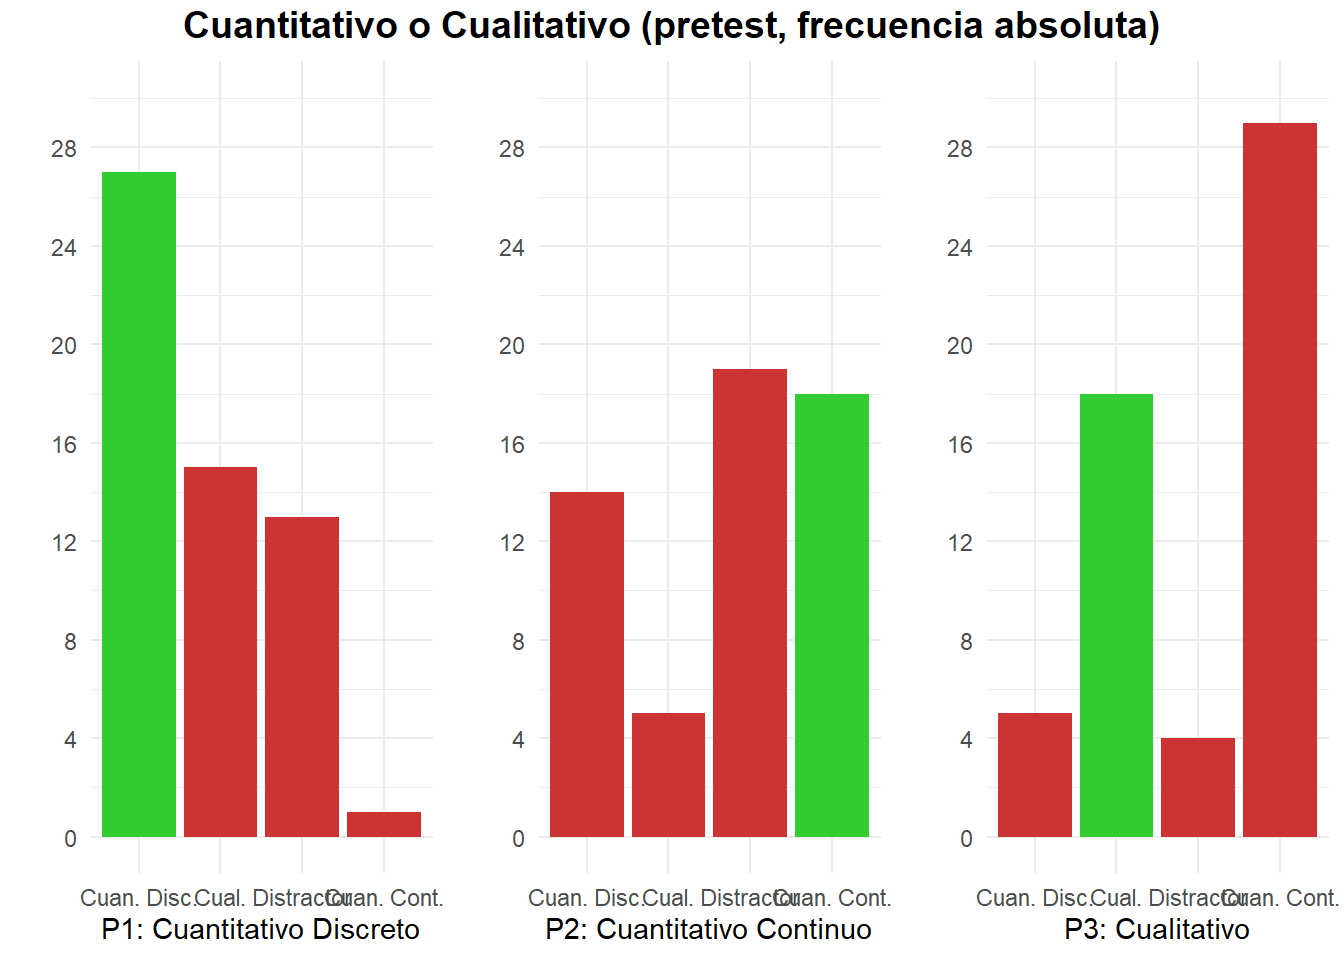
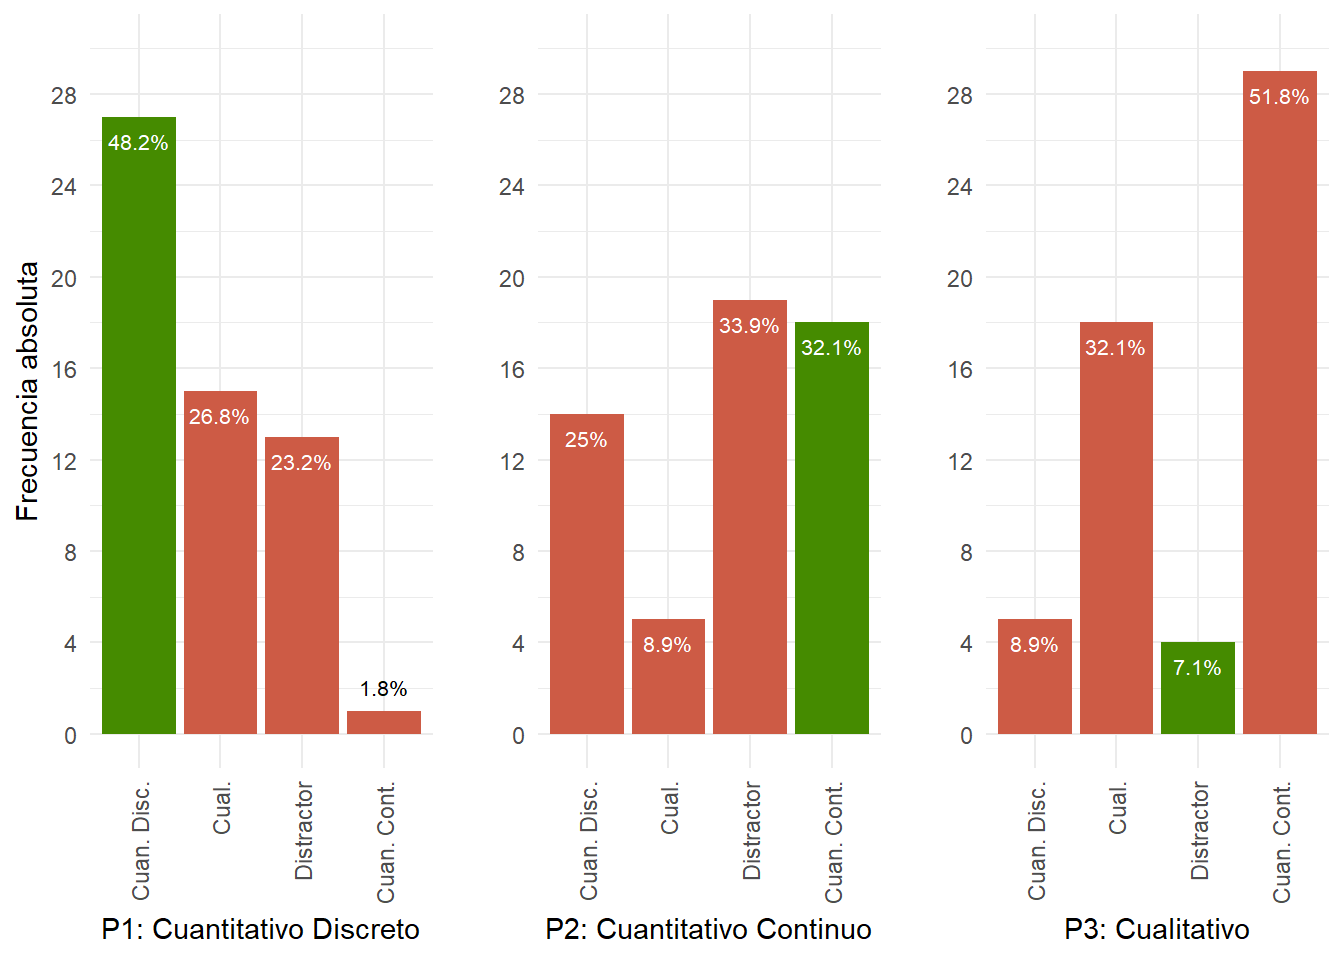
Gráficos añadidos + arreglos importantes

diff --git a/docs/analisis_exploratiorio.html b/docs/analisis_exploratiorio.html
@@ -145,6 +145,10 @@ ul.task-list li input[type="checkbox"] {
   <li><a href="#conocimientos-previos-pretest" id="toc-conocimientos-previos-pretest" class="nav-link active" data-scroll-target="#conocimientos-previos-pretest"><span class="header-section-number">3.1</span> Conocimientos previos: pretest</a>
   <ul class="collapse">
   <li><a href="#análisis-de-las-preguntas-1-2-y-3-del-pretest" id="toc-análisis-de-las-preguntas-1-2-y-3-del-pretest" class="nav-link" data-scroll-target="#análisis-de-las-preguntas-1-2-y-3-del-pretest"><span class="header-section-number">3.1.1</span> Análisis de las preguntas 1, 2 y 3 del pretest</a></li>
+  <li><a href="#análisis-de-la-pregunta-4-del-pretest" id="toc-análisis-de-la-pregunta-4-del-pretest" class="nav-link" data-scroll-target="#análisis-de-la-pregunta-4-del-pretest"><span class="header-section-number">3.1.2</span> Análisis de la pregunta 4 del pretest</a></li>
+  <li><a href="#análisis-de-la-pregunta-5-del-pretest" id="toc-análisis-de-la-pregunta-5-del-pretest" class="nav-link" data-scroll-target="#análisis-de-la-pregunta-5-del-pretest"><span class="header-section-number">3.1.3</span> Análisis de la pregunta 5 del pretest</a></li>
+  <li><a href="#análisis-de-la-pregunta-6-del-pretest" id="toc-análisis-de-la-pregunta-6-del-pretest" class="nav-link" data-scroll-target="#análisis-de-la-pregunta-6-del-pretest"><span class="header-section-number">3.1.4</span> Análisis de la pregunta 6 del pretest</a></li>
+  <li><a href="#análisis-de-la-pregunta-7-del-pretest" id="toc-análisis-de-la-pregunta-7-del-pretest" class="nav-link" data-scroll-target="#análisis-de-la-pregunta-7-del-pretest"><span class="header-section-number">3.1.5</span> Análisis de la pregunta 7 del pretest</a></li>
   </ul></li>
   <li><a href="#evolución-de-los-conocimientos-por-arquetipo-de-pregunta" id="toc-evolución-de-los-conocimientos-por-arquetipo-de-pregunta" class="nav-link" data-scroll-target="#evolución-de-los-conocimientos-por-arquetipo-de-pregunta"><span class="header-section-number">3.2</span> Evolución de los conocimientos por arquetipo de pregunta</a>
   <ul class="collapse">
@@ -184,23 +188,60 @@ ul.task-list li input[type="checkbox"] {
 <div class="cell-output-display">
 <div>
 <figure class="figure">
-<p><img src="analisis_exploratiorio_files/figure-html/Grafico1_expl-1.png" class="img-fluid figure-img" width="672"></p>
+<p><img src="analisis_exploratiorio_files/figure-html/Grafico11_expl-1.png" class="img-fluid figure-img" width="672"></p>
 </figure>
 </div>
 </div>
 </div>
 </section>
-<div class="columns">
-<div class="column" style="width:50%;">
 <section id="análisis-de-la-pregunta-4-del-pretest" class="level3" data-number="3.1.2">
 <h3 data-number="3.1.2" class="anchored" data-anchor-id="análisis-de-la-pregunta-4-del-pretest"><span class="header-section-number">3.1.2</span> Análisis de la pregunta 4 del pretest</h3>
+<div class="cell">
+<div class="cell-output-display">
+<div>
+<figure class="figure">
+<p><img src="analisis_exploratiorio_files/figure-html/Grafico12_expl-1.png" class="img-fluid figure-img" width="672"></p>
+</figure>
+</div>
+</div>
+</div>
 </section>
-</div><div class="column" style="width:50%;">
 <section id="análisis-de-la-pregunta-5-del-pretest" class="level3" data-number="3.1.3">
 <h3 data-number="3.1.3" class="anchored" data-anchor-id="análisis-de-la-pregunta-5-del-pretest"><span class="header-section-number">3.1.3</span> Análisis de la pregunta 5 del pretest</h3>
+<div class="cell">
+<div class="cell-output-display">
+<div>
+<figure class="figure">
+<p><img src="analisis_exploratiorio_files/figure-html/Grafico13_expl-1.png" class="img-fluid figure-img" width="672"></p>
+</figure>
+</div>
+</div>
+</div>
 </section>
+<section id="análisis-de-la-pregunta-6-del-pretest" class="level3" data-number="3.1.4">
+<h3 data-number="3.1.4" class="anchored" data-anchor-id="análisis-de-la-pregunta-6-del-pretest"><span class="header-section-number">3.1.4</span> Análisis de la pregunta 6 del pretest</h3>
+<div class="cell">
+<div class="cell-output-display">
+<div>
+<figure class="figure">
+<p><img src="analisis_exploratiorio_files/figure-html/Grafico14_expl-1.png" class="img-fluid figure-img" width="672"></p>
+</figure>
 </div>
 </div>
+</div>
+</section>
+<section id="análisis-de-la-pregunta-7-del-pretest" class="level3" data-number="3.1.5">
+<h3 data-number="3.1.5" class="anchored" data-anchor-id="análisis-de-la-pregunta-7-del-pretest"><span class="header-section-number">3.1.5</span> Análisis de la pregunta 7 del pretest</h3>
+<div class="cell">
+<div class="cell-output-display">
+<div>
+<figure class="figure">
+<p><img src="analisis_exploratiorio_files/figure-html/Grafico15_expl-1.png" class="img-fluid figure-img" width="672"></p>
+</figure>
+</div>
+</div>
+</div>
+</section>
 </section>
 <section id="evolución-de-los-conocimientos-por-arquetipo-de-pregunta" class="level2" data-number="3.2">
 <h2 data-number="3.2" class="anchored" data-anchor-id="evolución-de-los-conocimientos-por-arquetipo-de-pregunta"><span class="header-section-number">3.2</span> Evolución de los conocimientos por arquetipo de pregunta</h2>
@@ -210,7 +251,7 @@ ul.task-list li input[type="checkbox"] {
 <div class="cell-output-display">
 <div>
 <figure class="figure">
-<p><img src="analisis_exploratiorio_files/figure-html/Grafico3_expl-1.png" class="img-fluid figure-img" width="672"></p>
+<p><img src="analisis_exploratiorio_files/figure-html/Grafico21_expl-1.png" class="img-fluid figure-img" width="672"></p>
 </figure>
 </div>
 </div>
@@ -222,7 +263,7 @@ ul.task-list li input[type="checkbox"] {
 <div class="cell-output-display">
 <div>
 <figure class="figure">
-<p><img src="analisis_exploratiorio_files/figure-html/Grafico4_expl-1.png" class="img-fluid figure-img" width="672"></p>
+<p><img src="analisis_exploratiorio_files/figure-html/Grafico22_expl-1.png" class="img-fluid figure-img" width="672"></p>
 </figure>
 </div>
 </div>
